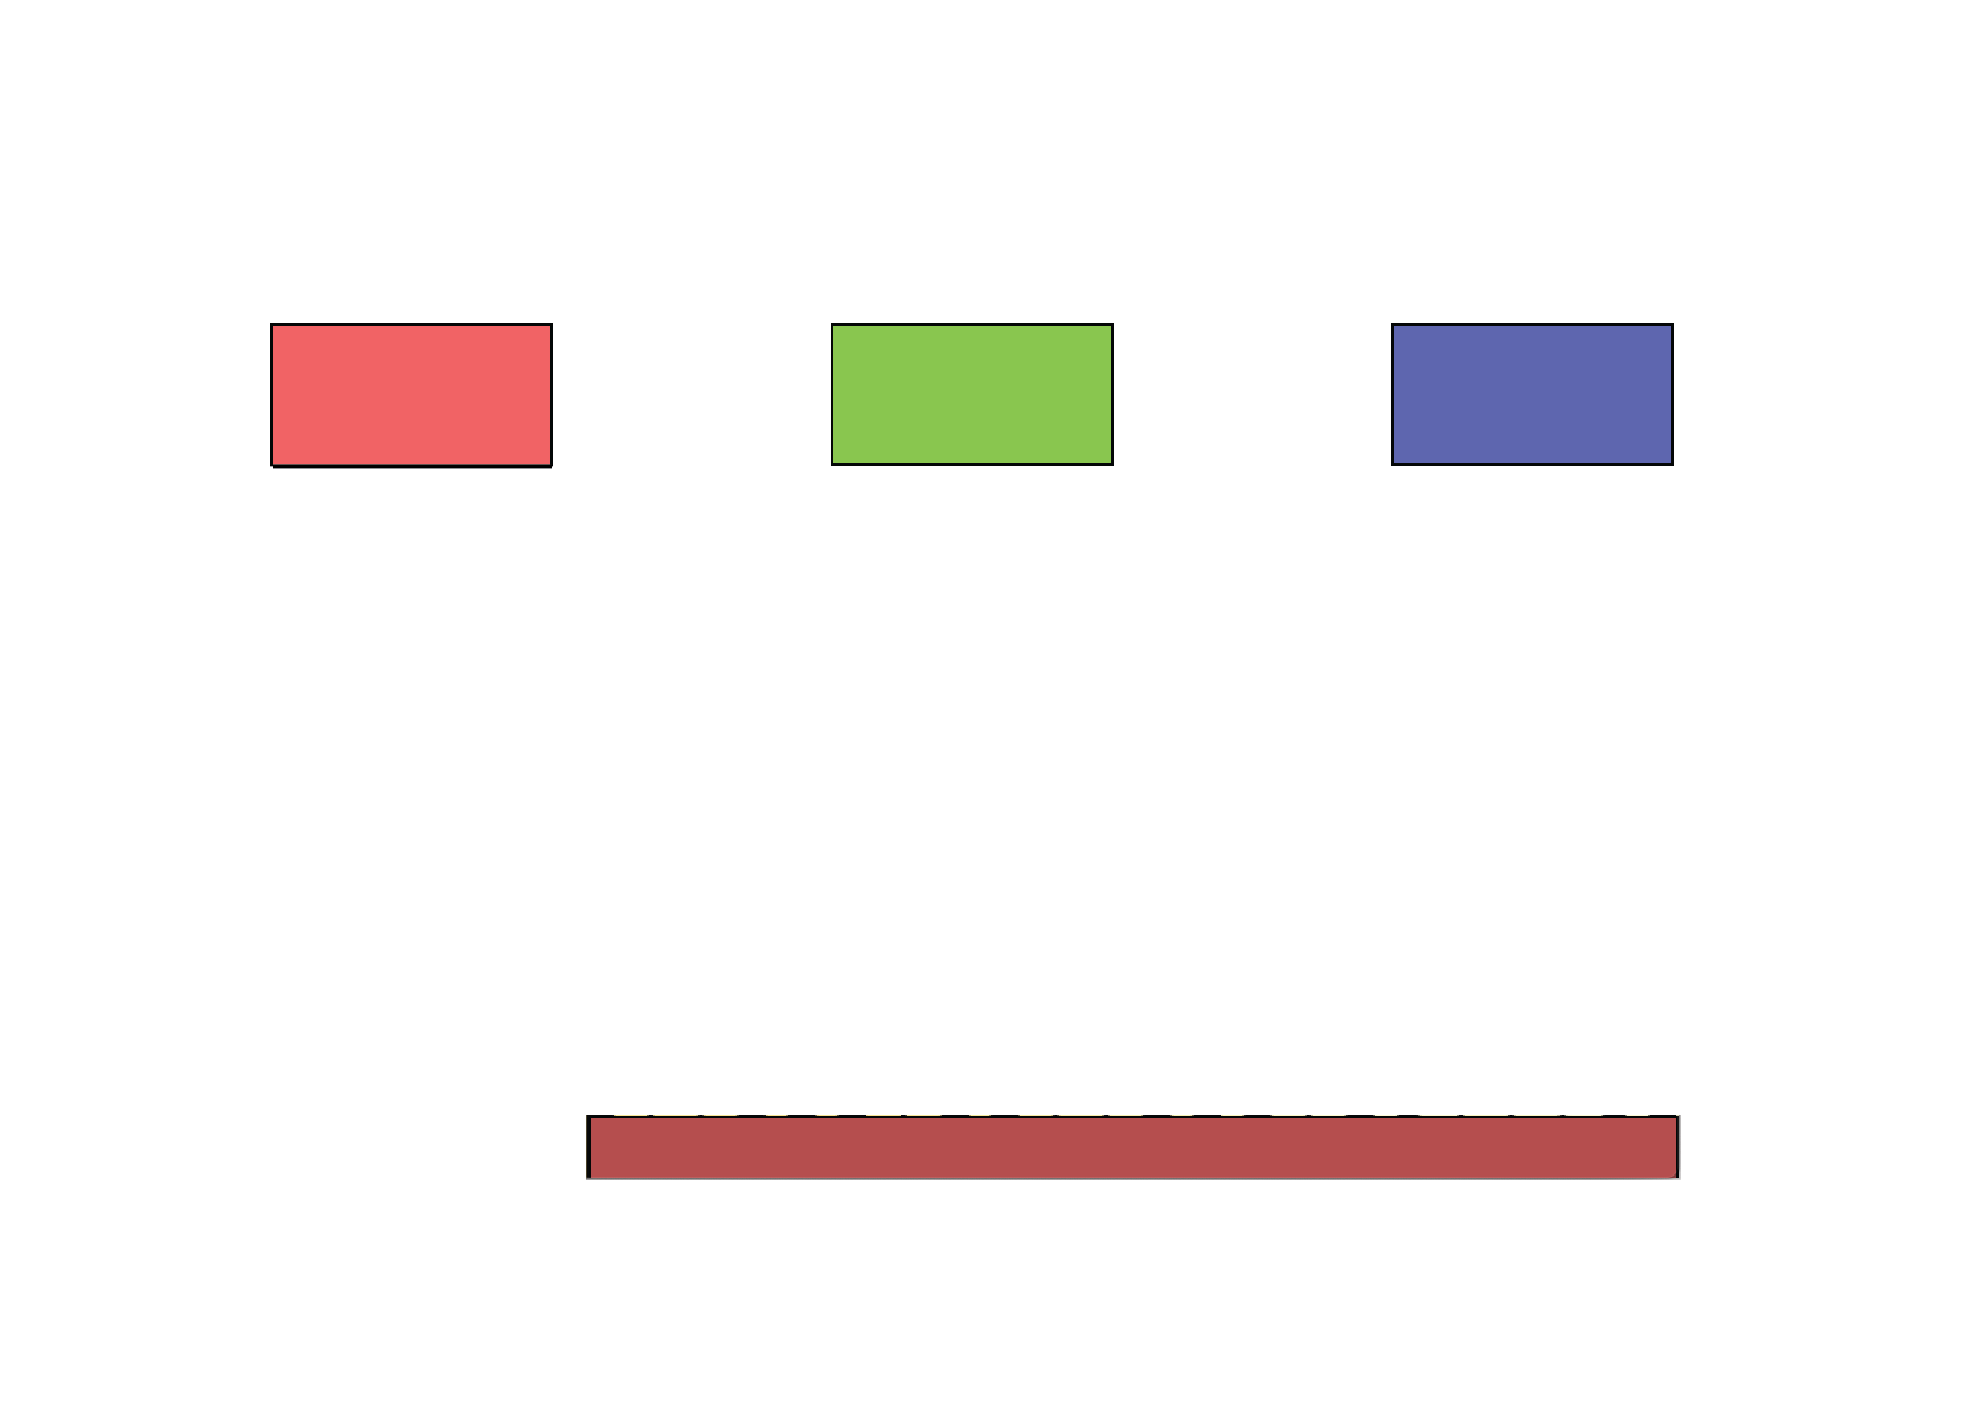
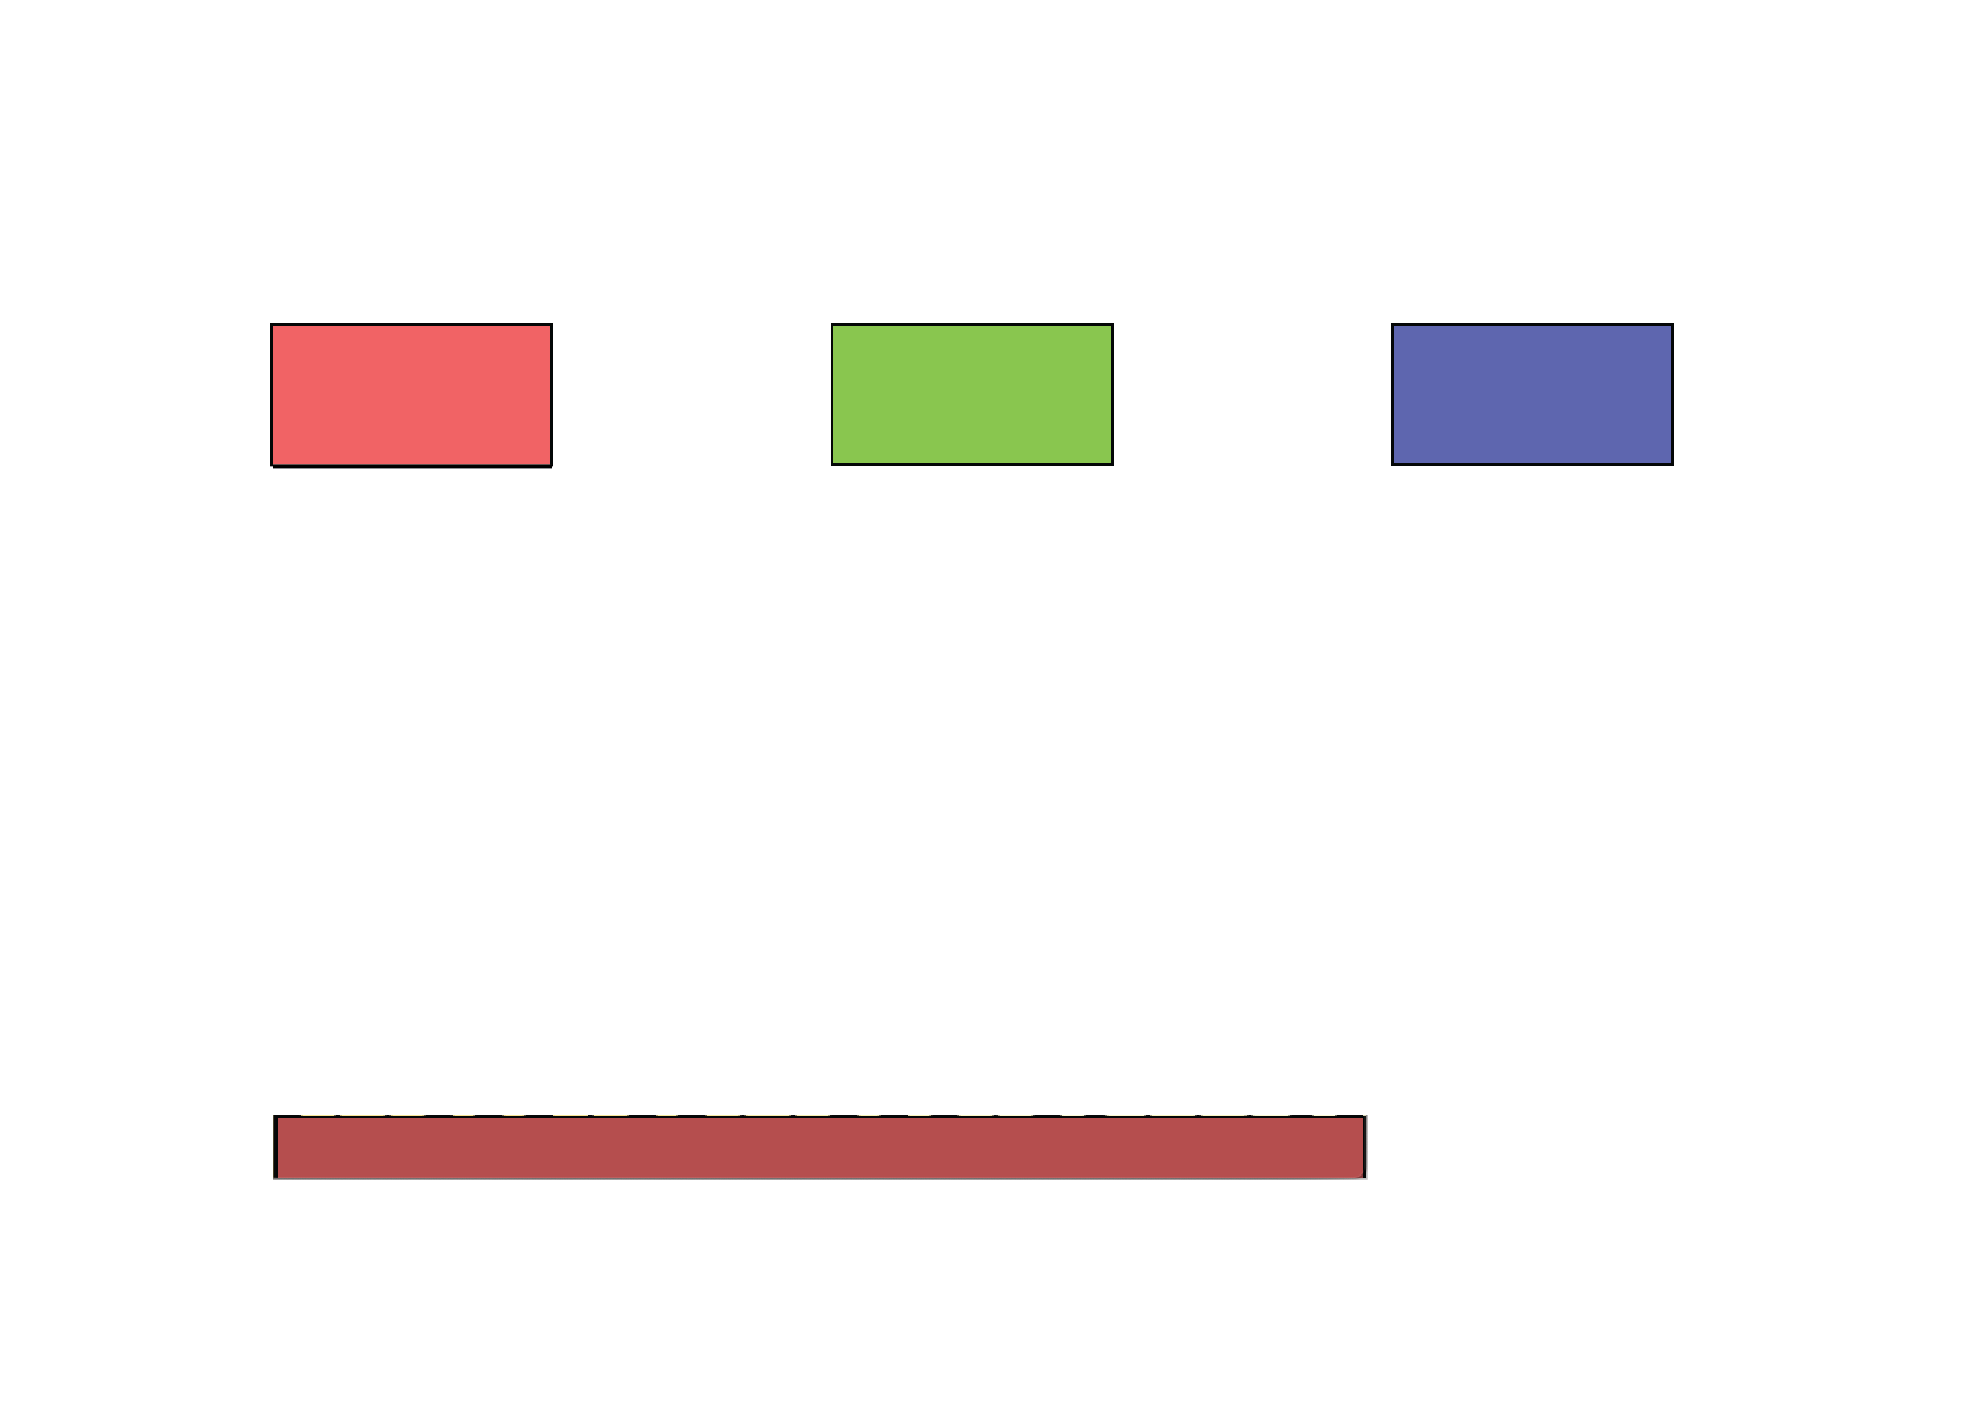
update 6810 lab2 slider visualization image

Changed region(s): [[0.6816, 0.7736, 0.8674, 0.8354], [0.1239, 0.7736, 0.3098, 0.8354]]

diff --git a/classes/2020-fall-6810/lab2-microcontroller-to-processing-connection.html b/classes/2020-fall-6810/lab2-microcontroller-to-processing-connection.html
@@ -415,7 +415,7 @@ The output should print continuously as long as the slider is touched. <br>
 
 <h4>Create Slider Visualization</h4><br>
 
-Now that the slider segment values are printing to the Serial port, we can read them from Processing.<br>
+Now that the slider values are printing to the Serial port, we can read them from Processing.<br>
 <span style="color:red">Open your Processing program that had the three touch bars and add a horizontal bar for the slider.<br> 
 The bar represents the entire slider. Thus, if the finger is on the left side of slider, the bar should be short and if the finger slides more to the right side of the slider, the bar should be long.</span><br><br>
 
